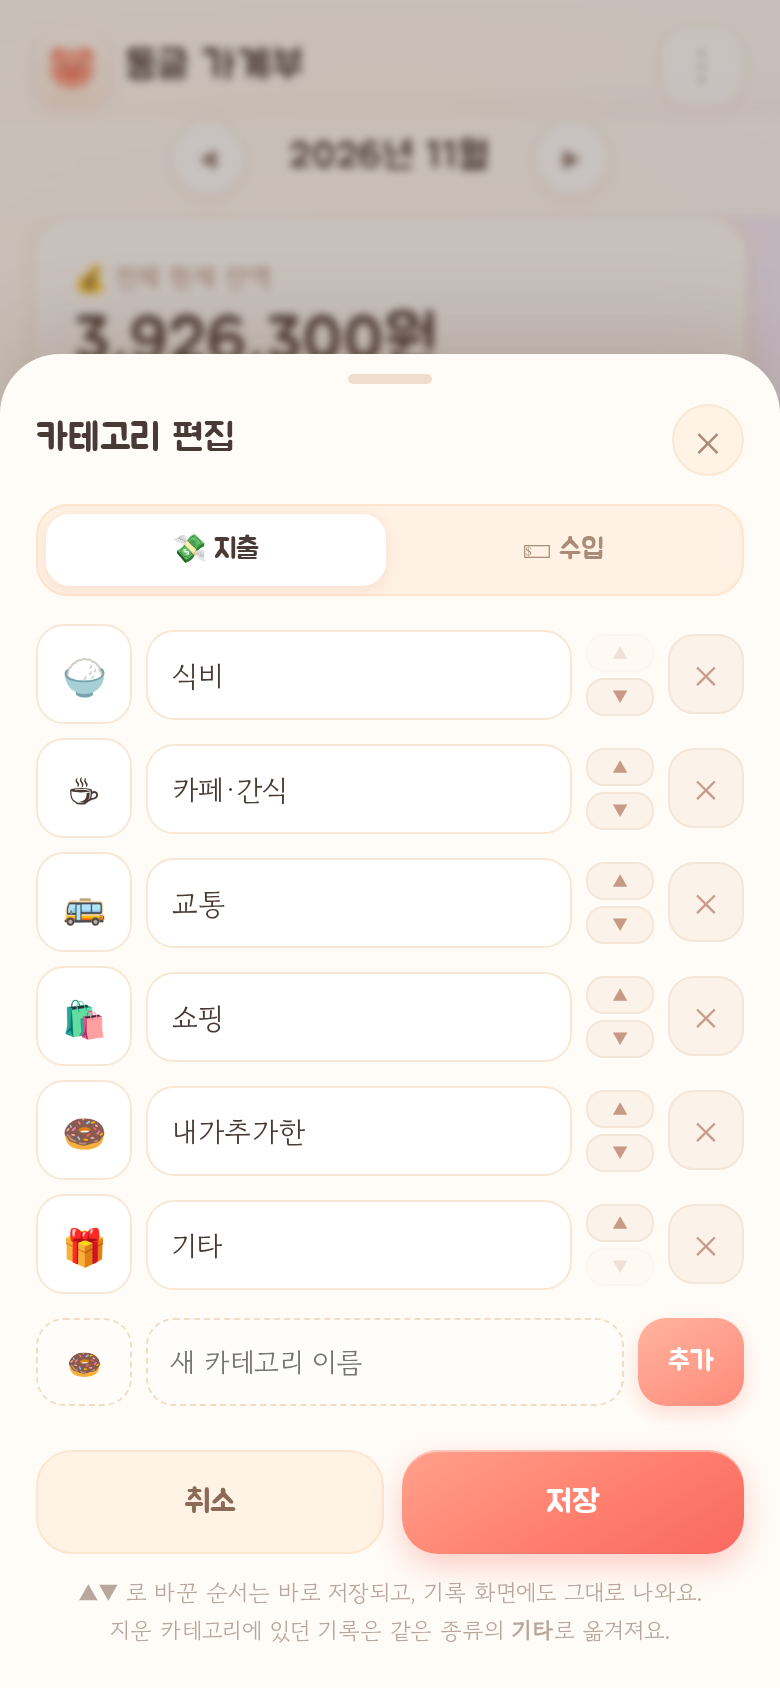
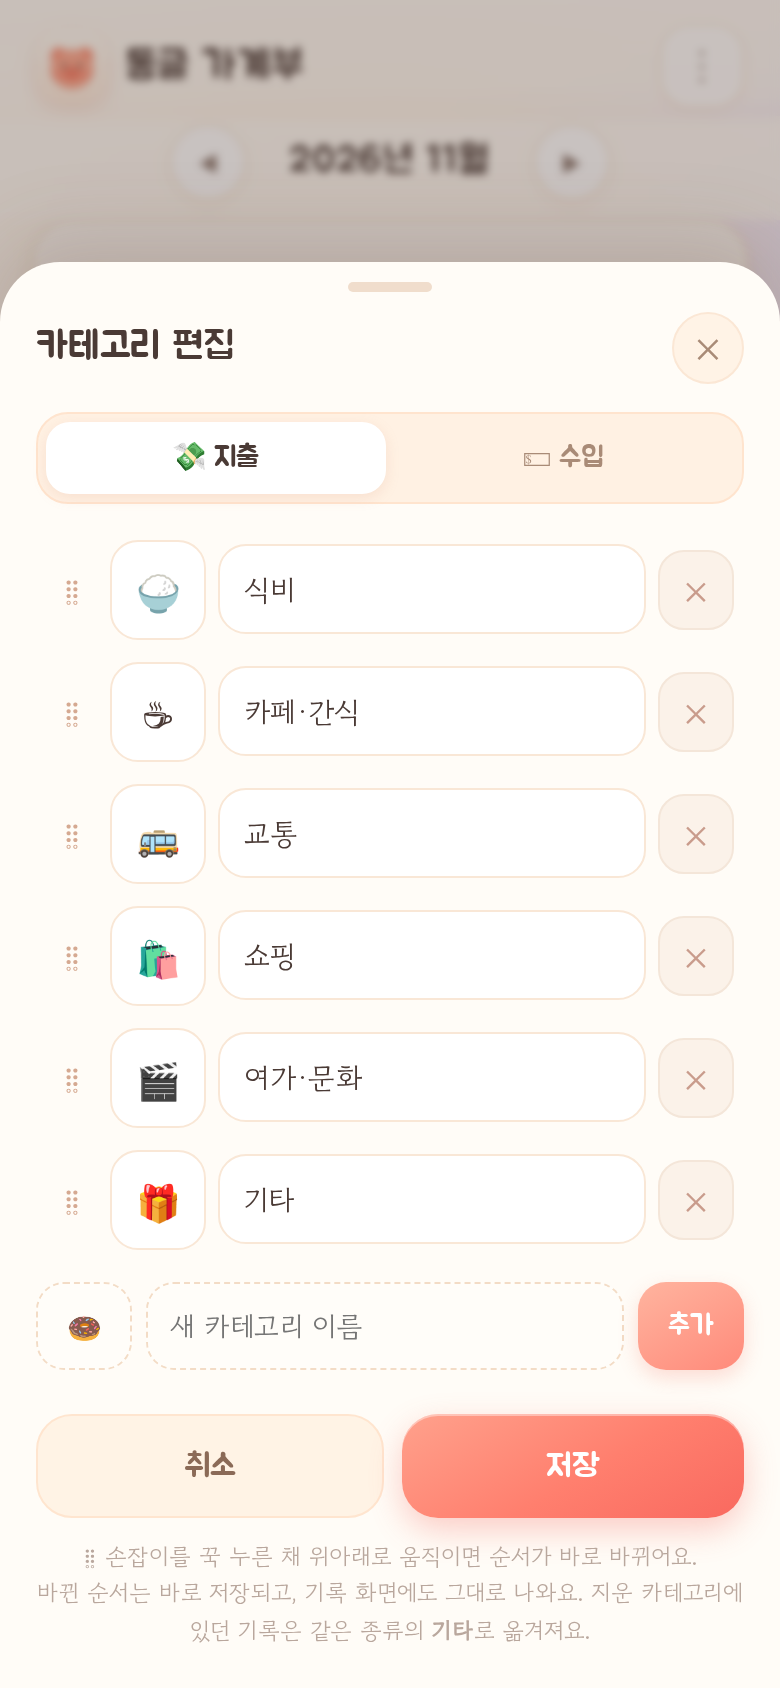
카테고리 순서를 꾹 눌러 위아래로 끌어 바꾸기: ▲▼ 버튼 대신 드래그 손잡이, 놓는 즉시 저장·자동 스크롤·키보드 지원

diff --git a/index.html b/index.html
@@ -11,7 +11,7 @@
 <meta name="apple-mobile-web-app-status-bar-style" content="default">
 <meta name="apple-mobile-web-app-title" content="동글 가계부">
 <meta name="format-detection" content="telephone=no">
-<meta name="app-version" content="1.4.0">
+<meta name="app-version" content="1.5.0">
 <link rel="manifest" href="manifest.webmanifest">
 <link rel="apple-touch-icon" href="apple-touch-icon.png">
 <link rel="icon" href="icon.svg" type="image/svg+xml">
@@ -402,7 +402,25 @@ main{flex:1;padding:0 16px calc(112px + var(--sab))}
 .menu-note{font-size:11.5px;color:var(--ink3);text-align:center;margin-top:10px;line-height:1.6}
 
 /* category editor */
-.cat-row{display:flex;gap:7px;align-items:center;margin-bottom:7px}
+.cat-row{display:flex;gap:6px;align-items:center;padding:4px 5px;margin-bottom:3px;position:relative;border-radius:16px;
+  transition:transform .2s cubic-bezier(.2,.8,.3,1)}
+.cat-row.dragging{
+  transition:none;z-index:7;cursor:grabbing;
+  background:#FFF6EC;outline:2px solid #FFD3B8;outline-offset:1px;
+  box-shadow:0 12px 26px rgba(206,146,116,.30);
+}
+.cat-row.dragging .emo,.cat-row.dragging .nm{background:#FFFDF8;border-color:#FCDCC4}
+.cat-row .grip{
+  width:26px;align-self:stretch;flex:none;display:grid;place-items:center;
+  color:#D5A991;font-size:15px;line-height:1;border-radius:12px;
+  touch-action:none;cursor:grab;
+  -webkit-user-select:none;user-select:none;-webkit-touch-callout:none;
+  transition:color .15s,background .15s;
+}
+.cat-row .grip:active,.cat-row.dragging .grip{color:#B98164;background:#FFEFE2}
+.cat-row .grip:focus-visible{outline:2px solid #FFD3B8;outline-offset:1px}
+#catList.is-dragging,#catList.is-dragging *{-webkit-user-select:none;user-select:none}
+.cat-row.press-armed{background:#FFF6EC}
 .cat-row .emo{
   width:48px;flex:none;text-align:center;padding:11px 0;border-radius:14px;background:#fff;
   border:1.5px solid #F9E7D6;font-size:18px;outline:0;
@@ -417,14 +435,6 @@ main{flex:1;padding:0 16px calc(112px + var(--sab))}
   color:#C99C8C;background:#FBF2E9;border:1px solid #F4E6D9;font-size:14px;
 }
 .cat-row .rm[disabled]{opacity:.35}
-.cat-row .ord{flex:none;display:flex;flex-direction:column;gap:3px}
-.cat-row .ord button{
-  width:34px;height:19px;display:grid;place-items:center;padding:0;
-  border-radius:9px;color:#C79A86;background:#FBF2E9;border:1px solid #F4E6D9;
-  font-size:9px;line-height:1;transition:.12s;touch-action:manipulation;
-}
-.cat-row .ord button:active:not([disabled]){background:#FFEAD8;color:#B57A5C;transform:scale(.93)}
-.cat-row .ord button[disabled]{opacity:.28}
 .cat-row.mv-flash{outline:2px solid #FFCFB2;outline-offset:2px;border-radius:16px}
 .cat-add{display:flex;gap:7px;margin-top:12px}
 .cat-add input{
@@ -1206,6 +1216,7 @@ function openSheet(html,onOpen){
 }
 function closeSheet(immediate){
   if(!sheetEl) return;
+  if(typeof catAbort==='function') catAbort();
   var el=sheetEl; sheetEl=null;
   el.classList.remove('on');
   document.body.classList.remove('noscroll');
@@ -1686,22 +1697,16 @@ function resetAll(){
 var catDraft=null, catTab='expense';
 function catRowsHTML(){
   var list=catDraft[catTab];
-  var last=list.length-1;
   return list.map(function(c,idx){
     return '<div class="cat-row" data-idx="'+idx+'">'+
+      '<button type="button" class="grip" data-grip="'+idx+'" aria-label="'+esc(c.name)+' 순서 바꾸기 — 꾹 눌러 위아래로" title="꾹 눌러 위아래로 움직이면 순서가 바뀌어요">⠿</button>'+
       '<input class="emo" maxlength="8" value="'+esc(c.emoji)+'" aria-label="이모지">'+
       '<input class="nm" maxlength="14" value="'+esc(c.name)+'" aria-label="카테고리 이름">'+
-      '<div class="ord">'+
-        '<button type="button" data-mv="up" data-idx="'+idx+'"'+(idx===0?' disabled':'')+
-          ' aria-label="'+esc(c.name)+' 위로 이동" title="위로">▲</button>'+
-        '<button type="button" data-mv="down" data-idx="'+idx+'"'+(idx===last?' disabled':'')+
-          ' aria-label="'+esc(c.name)+' 아래로 이동" title="아래로">▼</button>'+
-      '</div>'+
       '<button type="button" class="rm" data-rm="'+idx+'"'+(list.length<=1?' disabled':'')+' aria-label="삭제">✕</button>'+
     '</div>';
   }).join('');
 }
-/* ▲▼ 는 누르는 즉시 저장: state.cats 순서를 지금 초안 순서에 맞춰 바로 반영한다.
+/* 순서를 바꾸면 즉시 저장: state.cats 순서를 지금 초안 순서에 맞춰 바로 반영한다.
    (기록 추가 화면의 카테고리 그리드도 state.cats 순서를 그대로 쓴다) */
 function syncCatOrder(type){
   var want={};
@@ -1714,6 +1719,194 @@ function syncCatOrder(type){
     return want[c.id]!==undefined ? shared[k++] : c;
   });
 }
+
+/* 꾹 눌러 위아래로 끌어 순서 바꾸기 (Pointer Events + 롱프레스) */
+var catDrag=null, catPress=null, catDragLock=false;
+function catRowEls(listEl){ return Array.prototype.slice.call(listEl.querySelectorAll('.cat-row')); }
+function catMeasure(listEl){
+  var lr=listEl.getBoundingClientRect();
+  return catRowEls(listEl).map(function(el){
+    var rc=el.getBoundingClientRect();
+    return {el:el, top:rc.top-lr.top, h:rc.height};
+  });
+}
+function catSheetOf(el){
+  var p=el;
+  while(p){ if(p.classList&&p.classList.contains('sheet')) return p; p=p.parentNode; }
+  return null;
+}
+function catCancelPress(){
+  if(!catPress) return;
+  clearTimeout(catPress.timer);
+  if(catPress.row) catPress.row.classList.remove('press-armed');
+  catPress=null;
+}
+function catAbort(){
+  catCancelPress();
+  if(catDrag){
+    if(catDrag.raf) cancelAnimationFrame(catDrag.raf);
+    catDrag=null;
+  }
+}
+function catBeginDrag(press){
+  var listEl=press.listEl, m=catMeasure(listEl), s=press.idx;
+  catCancelPress();
+  if(!m[s]||catDrag) return;
+  var active=document.activeElement;
+  if(active&&active!==document.body&&listEl.contains(active)&&active.blur) active.blur();
+  catDrag={
+    listEl:listEl, m:m, s:s, row:m[s].el, pid:press.pid,
+    startY:press.y, lastY:press.y,
+    scroll:press.scroll||catSheetOf(listEl), startScroll:0,
+    dy:0, target:s, drop:0, raf:0, sp:0
+  };
+  catDrag.startScroll=catDrag.scroll?catDrag.scroll.scrollTop:0;
+  catDrag.maxScroll=catDrag.scroll?Math.max(0,catDrag.scroll.scrollHeight-catDrag.scroll.clientHeight):0;
+  m[s].el.classList.add('dragging');
+  m[s].el.style.transform='translateY(0px) scale(1.02)';
+  listEl.classList.add('is-dragging');
+  try{ if(navigator.vibrate) navigator.vibrate(8); }catch(e){}
+  catDragMove(press.y);
+}
+function catDragMove(clientY){
+  var d=catDrag; if(!d) return;
+  d.lastY=clientY;
+  var sd=d.scroll?(d.scroll.scrollTop-d.startScroll):0;
+  d.dy=(clientY-d.startY)+sd;
+  d.row.style.transform='translateY('+d.dy+'px) scale(1.02)';
+  catDragLayout();
+  catDragAutoScroll();
+}
+/* 행 높이를 재어 두고, 끌고 있는 행의 가운데가 어느 행의 가운데를 지나면
+   그 자리로 자리를 비켜 주도록 나머지 행을 transform 으로 밀어 둔다. */
+function catDragLayout(){
+  var d=catDrag, m=d.m, n=m.length, s=d.s;
+  var gap=(n>1)?Math.max(0,m[1].top-(m[0].top+m[0].h)):0;
+  var center=m[s].top+m[s].h/2+d.dy;
+  var t=0, j;
+  for(j=0;j<n;j++){ if(j!==s && m[j].top+m[j].h/2<center) t++; }
+  var others=[];
+  for(j=0;j<n;j++){ if(j!==s) others.push(j); }
+  var cur=m[0].top, drop=m[s].top;
+  for(var i=0;i<=others.length;i++){
+    if(i===t){ drop=cur; cur+=m[s].h+gap; }
+    if(i<others.length){
+      var k=others[i];
+      var off=cur-m[k].top;
+      m[k].el.style.transform=Math.abs(off)>0.4?('translateY('+off+'px)'):'translateY(0px)';
+      cur+=m[k].h+gap;
+    }
+  }
+  d.target=t;
+  d.drop=drop-m[s].top;
+}
+/* 목록 위/아래 가장자리로 끌면 자동으로 스크롤 */
+function catDragAutoScroll(){
+  var d=catDrag; if(!d||!d.scroll) return;
+  var sc=d.scroll, r=sc.getBoundingClientRect(), y=d.lastY, edge=74, sp=0;
+  if(y<r.top+edge) sp=-Math.ceil(Math.min(14,Math.max(3,(r.top+edge-y)/4)));
+  else if(y>r.bottom-edge) sp=Math.ceil(Math.min(14,Math.max(3,(y-(r.bottom-edge))/4)));
+  d.sp=sp;
+  if(!sp){ if(d.raf){ cancelAnimationFrame(d.raf); d.raf=0; } return; }
+  if(d.raf) return;
+  d.raf=requestAnimationFrame(function step(){
+    var dd=catDrag; if(!dd){ return; }
+    var before=dd.scroll.scrollTop;
+    /* 끌고 있는 행의 transform 이 스크롤 영역을 늘리므로, 처음 잰 실제 끝까지만 */
+    dd.scroll.scrollTop=Math.max(0,Math.min(dd.maxScroll,before+dd.sp));
+    if(dd.scroll.scrollTop===before){ dd.raf=0; return; }
+    catDragMove(dd.lastY);
+    dd.raf=requestAnimationFrame(step);
+  });
+}
+function catDragFinish(){
+  var d=catDrag; if(!d) return;
+  catDrag=null;
+  if(d.raf) cancelAnimationFrame(d.raf);
+  d.listEl.classList.remove('is-dragging');
+  catDragLock=true;
+  setTimeout(function(){ catDragLock=false; },260);
+  var row=d.row;
+  row.style.transition='transform .19s cubic-bezier(.2,.8,.3,1)';
+  row.style.transform='translateY('+(d.drop||0)+'px) scale(1)';
+  setTimeout(function(){
+    row.style.transition=''; row.style.transform='';
+    row.classList.remove('dragging');
+    var arr=catDraft[catTab];
+    if(d.target!==d.s&&arr.length>d.s){
+      var moved=arr.splice(d.s,1)[0];
+      arr.splice(Math.max(0,Math.min(d.target,arr.length)),0,moved);
+      syncCatOrder(catTab); save();
+    }
+    catRerenderList(d.target);
+  },200);
+}
+function catRerenderList(flashIdx){
+  var wrap=sheetEl; if(!wrap) return;
+  var listEl=wrap.querySelector('#catList'); if(!listEl) return;
+  var sc=wrap.querySelector('.sheet'), top=sc?sc.scrollTop:0;
+  listEl.innerHTML=catRowsHTML();
+  if(sc) sc.scrollTop=top;
+  if(flashIdx!=null){
+    var row=listEl.querySelector('.cat-row[data-idx="'+flashIdx+'"]');
+    if(row){ row.classList.add('mv-flash'); setTimeout(function(){ row.classList.remove('mv-flash'); },620); }
+  }
+}
+function catPointerDown(e){
+  if(catDrag||catDragLock) return;
+  if(e.button!==undefined&&e.button!==0) return;
+  var t=e.target;
+  if(!t||!t.closest) return;
+  if(t.closest('input,textarea,select,.rm,#catAdd,.sheet-actions,.sheet-head,.xbtn')) return;
+  var row=t.closest('.cat-row'); if(!row) return;
+  var listEl=row.closest('#catList'); if(!listEl) return;
+  var grip=!!t.closest('.grip');
+  catCancelPress();
+  var press={pid:e.pointerId, x:e.clientX, y:e.clientY, idx:Number(row.dataset.idx),
+             row:row, listEl:listEl, grip:grip, scroll:catSheetOf(listEl), timer:0};
+  catPress=press;
+  if(grip){
+    row.classList.add('press-armed');
+    try{ e.preventDefault(); }catch(err){}
+  }
+  press.timer=setTimeout(function(){
+    if(catPress!==press) return;
+    catBeginDrag(press);
+  }, grip?140:280);
+}
+function catPointerMove(e){
+  if(catPress&&e.pointerId===catPress.pid&&!catDrag){
+    var p=catPress, dx=e.clientX-p.x, dy=e.clientY-p.y, dist=dx*dx+dy*dy;
+    if(p.grip){ if(dist>36) catBeginDrag(p); }
+    else if(dist>100) catCancelPress();
+    if(!catDrag) return;
+  }
+  if(!catDrag||e.pointerId!==catDrag.pid) return;
+  if(e.cancelable) e.preventDefault();
+  catDragMove(e.clientY);
+}
+function catPointerUp(e){
+  if(catPress&&e.pointerId===catPress.pid) catCancelPress();
+  if(catDrag&&e.pointerId===catDrag.pid) catDragFinish();
+}
+function catKeyMove(e){
+  var g=e.target.closest&&e.target.closest('.grip'); if(!g) return;
+  var d=e.key==='ArrowUp'?-1:(e.key==='ArrowDown'?1:0);
+  if(!d) return;
+  e.preventDefault();
+  var row=g.closest('.cat-row'), listEl=row.closest('#catList');
+  var i=Number(row.dataset.idx), j=i+d, arr=catDraft[catTab];
+  if(j<0||j>=arr.length) return;
+  var tmp=arr[i]; arr[i]=arr[j]; arr[j]=tmp;
+  syncCatOrder(catTab); save();
+  catRerenderList(j);
+  var nb=listEl&&listEl.querySelector('.cat-row[data-idx="'+j+'"] .grip');
+  if(nb){ try{ nb.focus({preventScroll:true}); }catch(err){ try{ nb.focus(); }catch(e2){} } }
+}
+window.addEventListener('pointermove',catPointerMove,{passive:false});
+window.addEventListener('pointerup',catPointerUp);
+window.addEventListener('pointercancel',catPointerUp);
+
 function openCatSheet(){
   catDraft=JSON.parse(JSON.stringify(state.cats));
   catTab='expense';
@@ -1727,10 +1920,18 @@ function openCatSheet(){
       '<button type="submit">추가</button>'+
     '</form>'+
     '<div class="sheet-actions"><button type="button" class="btn-ghost" data-close>취소</button><button type="button" class="btn-primary" id="catSave">저장</button></div>'+
-    '<p class="menu-note">▲▼ 로 바꾼 순서는 바로 저장되고, 기록 화면에도 그대로 나와요.<br>지운 카테고리에 있던 기록은 같은 종류의 <b>기타</b>로 옮겨져요.</p>',
+    '<p class="menu-note">⠿ 손잡이를 꾹 누른 채 위아래로 움직이면 순서가 바로 바뀌어요.<br>바뀐 순서는 바로 저장되고, 기록 화면에도 그대로 나와요. 지운 카테고리에 있던 기록은 같은 종류의 <b>기타</b>로 옮겨져요.</p>',
     function(wrap){
       $$('[data-close]',wrap).forEach(function(b){ b.addEventListener('click',function(){ closeSheet(); }); });
       var listEl=wrap.querySelector('#catList');
+      var scroller=wrap.querySelector('.sheet');
+      /* 드래그 중에는 뒷 배경(모달)이 같이 스크롤되지 않게 */
+      if(scroller) scroller.addEventListener('touchmove',function(e){
+        if(catDrag&&e.cancelable) e.preventDefault();
+      },{passive:false});
+      listEl.addEventListener('pointerdown',catPointerDown);
+      listEl.addEventListener('keydown',catKeyMove);
+      listEl.addEventListener('contextmenu',function(e){ if(catDrag||catPress) e.preventDefault(); });
       wrap.querySelector('#catSeg').addEventListener('click',function(e){
         var b=e.target.closest('button[data-t]'); if(!b) return;
         catTab=b.dataset.t;
@@ -1744,32 +1945,6 @@ function openCatSheet(){
         if(e.target.classList.contains('nm')) catDraft[catTab][idx].name=e.target.value.slice(0,14);
       });
       listEl.addEventListener('click',function(e){
-        var mv=e.target.closest('[data-mv]');
-        if(mv){
-          if(mv.getAttribute('disabled')!==null) return;
-          var i=Number(mv.dataset.idx);
-          var d=mv.dataset.mv;
-          var j=(d==='up')?i-1:i+1;
-          var arr=catDraft[catTab];
-          if(j<0||j>=arr.length){ return; }
-          var tmp=arr[i]; arr[i]=arr[j]; arr[j]=tmp;
-          syncCatOrder(catTab);
-          save();
-          var scroller=wrap.querySelector('.sheet');
-          var sTop=scroller?scroller.scrollTop:0;
-          listEl.innerHTML=catRowsHTML();
-          if(scroller) scroller.scrollTop=sTop;
-          var row=listEl.querySelector('.cat-row[data-idx="'+j+'"]');
-          if(row){
-            row.classList.add('mv-flash');
-            setTimeout(function(){ row.classList.remove('mv-flash'); },700);
-            var nb=row.querySelector('[data-mv="'+d+'"]');
-            if(nb&&nb.getAttribute('disabled')===null){
-              try{ nb.focus({preventScroll:true}); }catch(err){ try{ nb.focus(); }catch(e2){} }
-            }
-          }
-          return;
-        }
         var b=e.target.closest('[data-rm]'); if(!b||b.disabled) return;
         var idx=Number(b.dataset.rm);
         catDraft[catTab].splice(idx,1);

diff --git a/README.md b/README.md
@@ -12,7 +12,7 @@
 | `manifest.webmanifest` | 홈 화면에 추가할 때 쓰는 앱 정보 |
 | `icon.svg`, `icon-192.png`, `icon-512.png`, `icon-maskable-512.png` | 앱 아이콘 (돼지 얼굴) |
 | `apple-touch-icon.png` | 아이폰 홈 화면 아이콘 |
-| `preview-list.png` · `preview-add.png` · `preview-stats.png` · `preview-wallet.png` · `preview-transfer.png` · `preview-cat-order.png` | 화면 미리보기 |
+| `preview-list.png` · `preview-add.png` · `preview-stats.png` · `preview-wallet.png` · `preview-transfer.png` · `preview-cat-order.png` · `preview-cat-drag.png` | 화면 미리보기 |
 
 ## 쓰는 법
 
@@ -39,9 +39,9 @@
 - **월 이동** — 위쪽 `◀ 2026년 11월 ▶` 로 달을 넘기고, 다른 달을 보는 중에는 **이번 달** 칩으로 바로 돌아옵니다.
 - **통계** — 아래 **통계** 탭에서 지출/수입을 카테고리별 도넛과 순위 막대로 봅니다. 금액과 비율(%)이 같이 나와요. 신용카드로 쓴 돈도 지출 합계·카테고리 통계에 그대로 들어가고, **🔄 이동**은 수입·지출 어느 쪽에도 안 들어갑니다.
 - **카테고리** — `⋮ → 카테고리 편집` 에서 이모지와 이름을 바꾸거나 새 카테고리를 만들 수 있습니다. 지운 카테고리에 있던 기록은 같은 종류의 **기타** 로 옮겨집니다.
-  - **순서 바꾸기** — 각 줄 오른쪽의 **▲ / ▼** 를 누르면 그 자리에서 위아래로 자리가 바뀝니다. 맨 첫 줄의 ▲ 와 맨 끝 줄의 ▼ 는 눌리지 않아요. 바꾼 순서는 **누르는 즉시 저장**되고, 기록 창(＋)의 카테고리 버튼도 바뀐 순서를 그대로 따라요. (이름·이모지 수정과 달리 순서는 **저장**을 누르지 않아도 바로 반영됩니다 — **취소** 를 눌러도 순서는 남아요.)
+  - **순서 바꾸기** — 카테고리 줄 왼쪽의 **⠿ 손잡이**를 꾹 누른 채 위아래로 움직이면, 그 줄이 살짝 떠오른 채 손가락(마우스)을 따라오고 다른 줄들이 자리를 비켜 줘요. 손을 떼는 순간 그 자리로 들어가며 **바로 저장**되고, 기록 창(＋)의 카테고리 버튼도 바뀐 순서를 그대로 따라요. (이름·이모지 수정과 달리 순서는 **저장**을 누르지 않아도 바로 반영됩니다 — **취소** 를 눌러도 순서는 남아요.) 이름·이모지 칸을 고치거나 ✕ 로 지울 때는 드래그가 끼어들지 않고, 카테고리가 많아 화면을 넘어가면 목록의 위/아래 끝으로 끌 때 저절로 스크롤돼요.
 
-    ![카테고리 순서 변경](preview-cat-order.png)
+    ![카테고리 순서 바꾸기](preview-cat-drag.png)
 
 ## 백업 (폰을 바꿀 때 꼭!)
 
@@ -70,4 +70,4 @@
 - 색: 크림·버터·연살구 배경에 연보라 포인트, 지출은 코랄핑크 / 수입은 민트·하늘색
 - 저장 키: `ming.budget.v1` (1.2.0부터 지갑 항목마다 `group: 'cash' | 'bank'`가 붙고, 예전 데이터는 `id:'cash'`만 현금·나머지는 모두 계좌로 자동 편입 / 1.3.0부터 기록마다 `payMethod: 'cash' | 'transfer' | 'debit' | 'credit'`가 붙고, 없던 기록은 현금 지갑이면 `cash`·계좌 기록이면 `transfer`로 자동 전환 / 1.4.0부터 지갑마다 `includeInTotal`(없던 데이터는 `true`), 기록에 `type:'transfer'` + `fromWalletId`·`toWalletId` 추가)
 - 잔액 계산: `현재 잔액 = 처음 잔액 + 그 항목의 수입 − 그 항목의 지출 ± 그 항목으로 오간 이동`. 잔액을 직접 적으면 `처음 잔액 = 적은 잔액 − (수입 − 지출 + 이동)` 로 역산해 저장하고, `계좌 총합 = 계좌 세부 항목 중 재산 포함인 것의 잔액 합`, `전체 잔액 = 재산 포함인 현금 + 계좌 총합`(재산 제외 항목은 따로 표시). **신용카드 지출은 `walletId` 없이 저장되어 어느 잔액에서도 빠지지 않고**, 이번 달 지출 합계·카테고리 통계에만 들어갑니다. **이동은 잔액만 옮기고 수입·지출 합계에서는 빠집니다.**
-- 검증: Playwright(모바일 뷰포트 390×844)로 기존 기능 전부에 더해 — 현금 50,000·기본 계좌 1,000,000·카카오페이 100,000(재산 제외)일 때 **전체 현재 잔액 1,050,000원**·계좌 총합 1,000,000원·`재산 제외` 태그, 카카오페이로 10,000원 지출해도 전체 1,050,000원 유지·카카오페이만 90,000원, 스위치 OFF→ON으로 1,140,000원·다시 OFF로 1,050,000원, 현금도 제외 가능(1,000,000원), **기본 계좌 → 카카오페이 50,000원 이동 시 기본 계좌 950,000·카카오페이 150,000·이번 달 수입/지출 0원 유지**, 같은 곳끼리 이동 저장 차단, 이동 기록 고치기·지우기·새로고침 유지, 이동이 현금/계좌/신용카드 필터에 각각 맞게 보임, 통계 0원, 예전 데이터·예전 백업(필드 없음) 불러오기 호환, 백업에 `includeInTotal`·이동 기록 포함 및 재불러오기, 지갑 삭제 시 이동 기록 정리, 초기화, **카테고리 순서 변경**(줄마다 ▲▼·첫 줄 ▲와 끝 줄 ▼ 비활성, 누르면 바로 저장·새로고침 후 유지·기록 창 그리드 순서 반영, 지출/수입 따로, 취소해도 순서 유지, 이동 기록이 있어도 카테고리 저장이 오류 없이 동작), 콘솔 에러 0건 확인
+- 검증: Playwright(모바일 뷰포트 390×844)로 기존 기능 전부에 더해 — 현금 50,000·기본 계좌 1,000,000·카카오페이 100,000(재산 제외)일 때 **전체 현재 잔액 1,050,000원**·계좌 총합 1,000,000원·`재산 제외` 태그, 카카오페이로 10,000원 지출해도 전체 1,050,000원 유지·카카오페이만 90,000원, 스위치 OFF→ON으로 1,140,000원·다시 OFF로 1,050,000원, 현금도 제외 가능(1,000,000원), **기본 계좌 → 카카오페이 50,000원 이동 시 기본 계좌 950,000·카카오페이 150,000·이번 달 수입/지출 0원 유지**, 같은 곳끼리 이동 저장 차단, 이동 기록 고치기·지우기·새로고침 유지, 이동이 현금/계좌/신용카드 필터에 각각 맞게 보임, 통계 0원, 예전 데이터·예전 백업(필드 없음) 불러오기 호환, 백업에 `includeInTotal`·이동 기록 포함 및 재불러오기, 지갑 삭제 시 이동 기록 정리, 초기화, **카테고리 순서 드래그**(⠿ 손잡이를 140ms 꾹 누른 뒤 끌기·줄 여백을 280ms 길게 누른 뒤 끌기 모두 동작, 손잡이 짧은 탭은 그대로, 마우스·실제 터치(CDP) 양쪽에서 위/아래 한 칸·두 칸 이동, 놓는 즉시 `state.cats` 저장·새로고침 후 유지·기록 창 그리드 순서 반영, 지출/수입 따로, 취소해도 순서 유지, 이름칸을 꾹 눌러도 드래그 안 됨·이름 수정/삭제/추가 정상, 빠른 스와이프는 드래그로 안 잡힘, 카테고리 18개일 때 끝으로 끌면 자동 스크롤·스크롤된 상태에서도 정확히 이동, 드래그 중 ESC로 닫아도 오류 없음, 360px 뷰포트 가로 넘침 없음), 콘솔 에러 0건 확인
